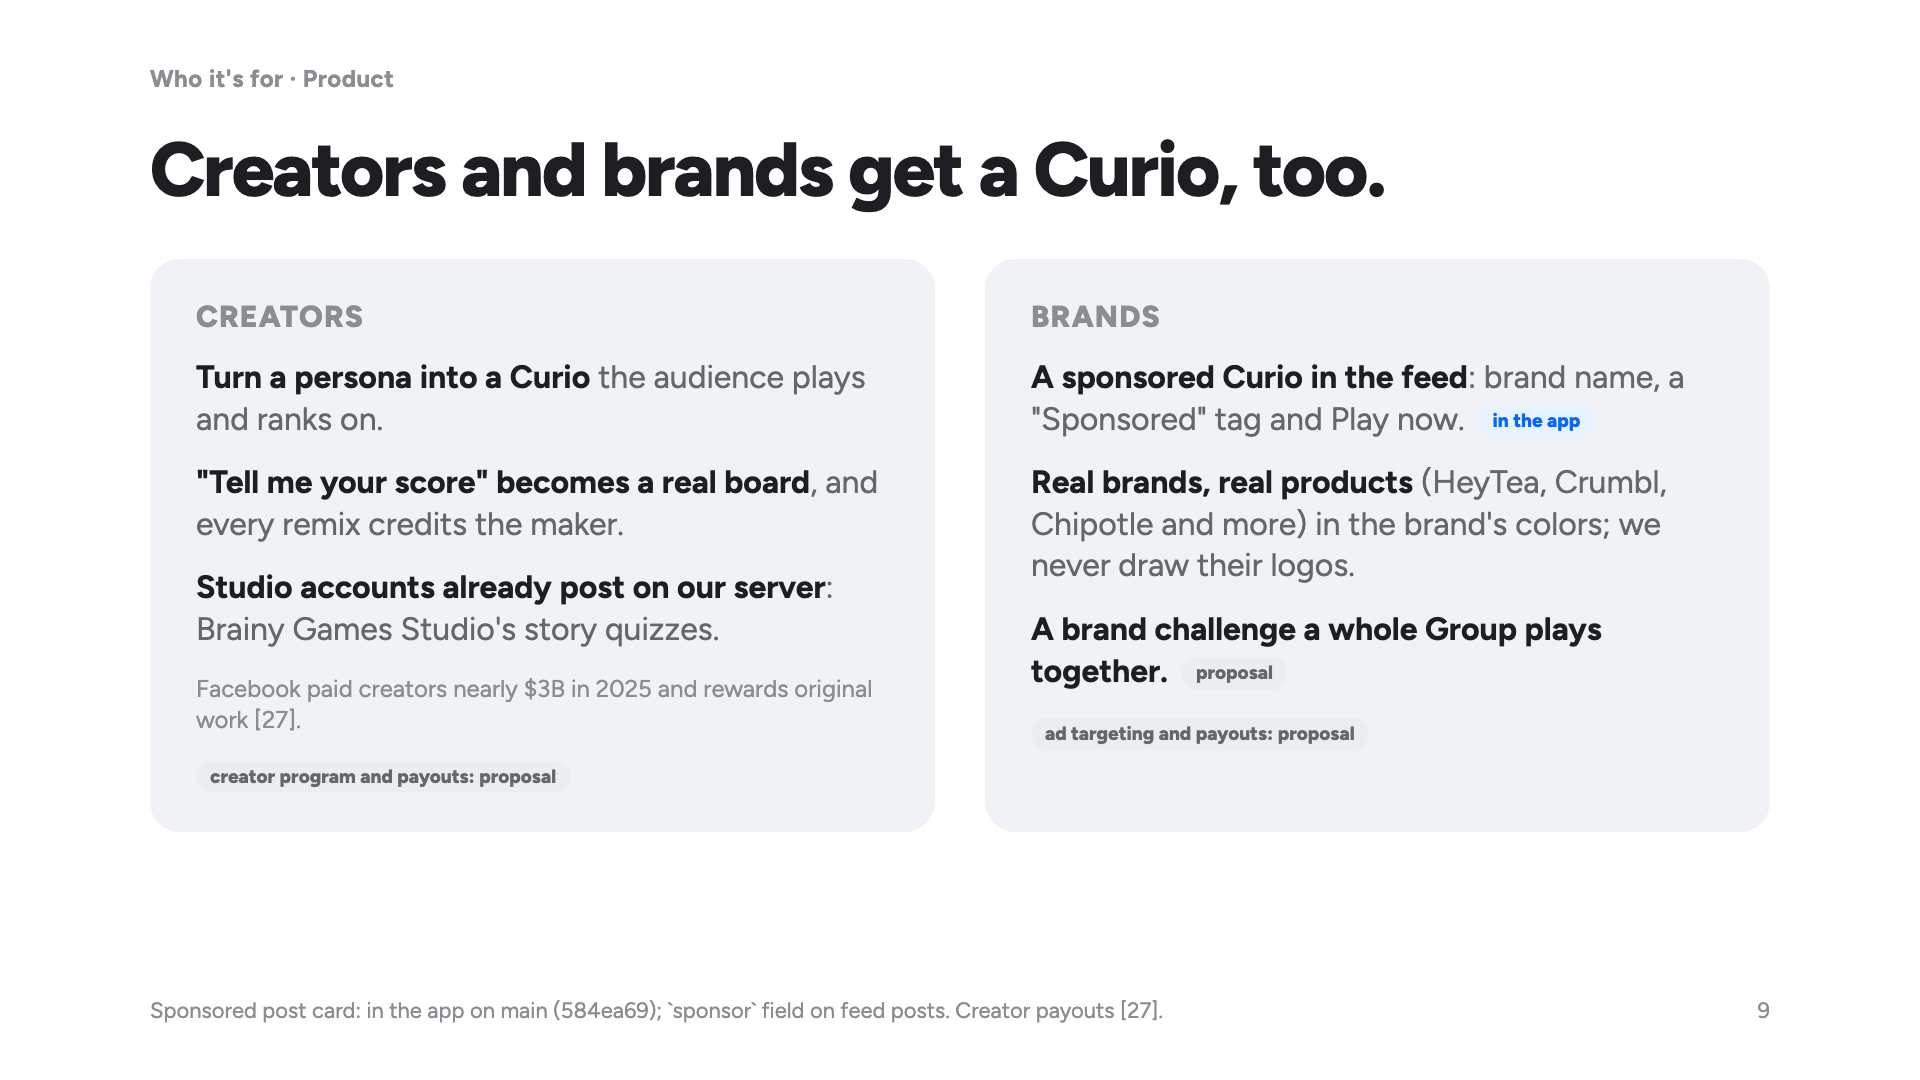
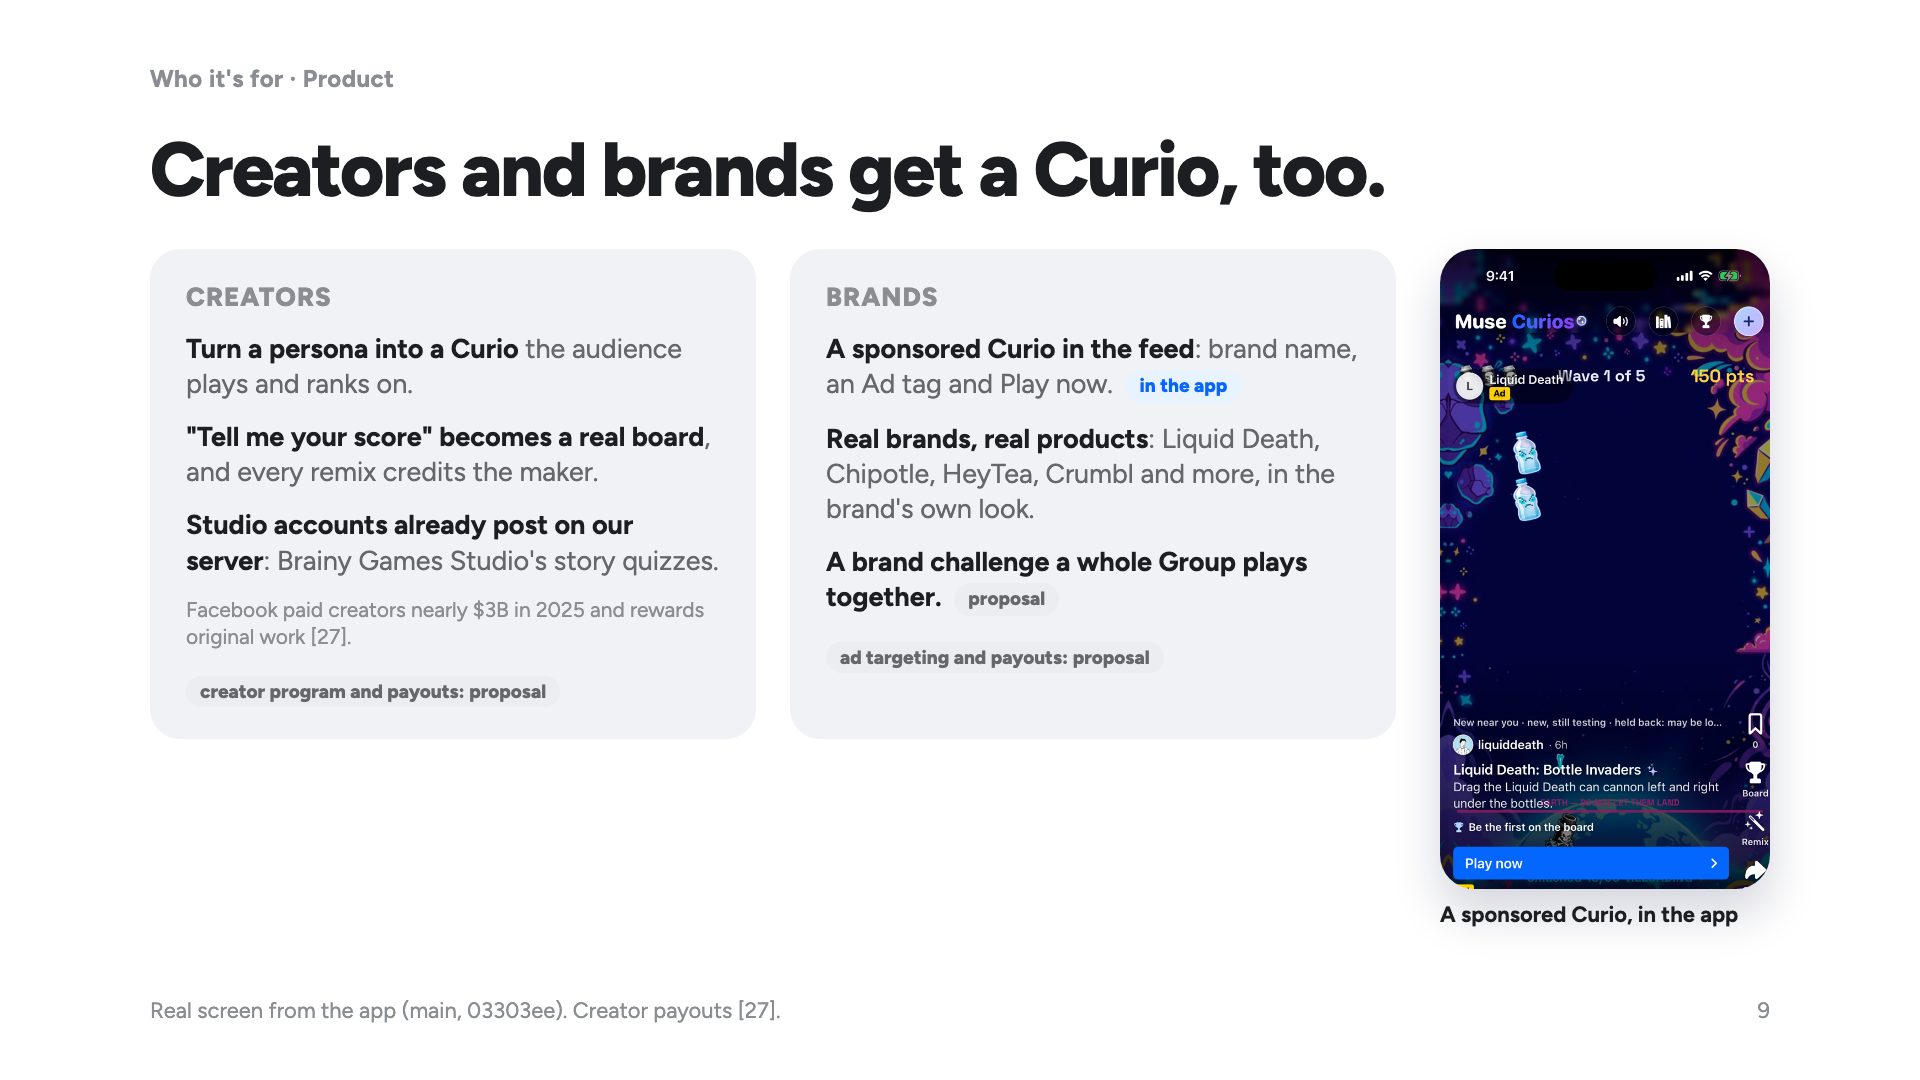
Slide 9: a real sponsored Curio screen from the app (Liquid Death, Ad tag, Play now); wording matches the app

diff --git a/docs/pr/slides/deck.html b/docs/pr/slides/deck.html
@@ -395,6 +395,11 @@ h2 { font-size: 96px; line-height: 1.04; font-weight: 800; letter-spacing: -.025
 .cph2 { display: flex; align-items: flex-end; gap: 50px; margin-top: 24px; }
 .cpl { flex: none; width: 400px; padding-bottom: 50px; } .cpl b { display: block; white-space: nowrap; font-size: 64px; font-weight: 900; background: var(--grad); -webkit-background-clip: text; color: transparent; }
 .cpl span { display: block; font-size: 26px; color: var(--ink); font-weight: 700; line-height: 1.25; margin-top: 4px; } .cpl small { display: block; font-size: 20px; color: var(--muted); margin-top: 12px; }
+
+.srow { display: flex; gap: 44px; align-items: flex-start; margin-top: 40px; } .srow .sgrid { flex: 1; margin-top: 0; gap: 34px; }
+.spon .sc { padding: 32px 36px; } .spon .sc p { font-size: 27px; margin-top: 18px; } .spon .sc em { font-size: 26px; } .spon .sc p.sev { font-size: 21px; }
+.sph { margin: 0; flex: none; width: 330px; } .sph img { width: 330px; height: 640px; object-fit: cover; object-position: top; border-radius: 34px; display: block; box-shadow: 0 24px 48px rgba(16,24,64,.18); }
+.sph figcaption { font-size: 22px; font-weight: 700; margin-top: 12px; }
 </style>
 </head>
 <body>
@@ -553,7 +558,7 @@ h2 { font-size: 96px; line-height: 1.04; font-weight: 800; letter-spacing: -.025
 <section class="slide spon">
   <div class="label">Who it's for · Product</div>
   <h2>Creators and brands get a Curio, too.</h2>
-  <div class="sgrid">
+  <div class="srow"><div class="sgrid">
     <div class="sc"><em>Creators</em>
       <p><b>Turn a persona into a Curio</b> the audience plays and ranks on.</p>
       <p><b>"Tell me your score" becomes a real board</b>, and every remix credits the maker.</p>
@@ -561,12 +566,14 @@ h2 { font-size: 96px; line-height: 1.04; font-weight: 800; letter-spacing: -.025
       <p class="sev">Facebook paid creators nearly $3B in 2025 and rewards original work [27].</p>
       <span class="chip srv">creator program and payouts: proposal</span></div>
     <div class="sc"><em>Brands</em>
-      <p><b>A sponsored Curio in the feed</b>: brand name, a "Sponsored" tag and Play now. <span class="chip app">in the app</span></p>
-      <p><b>Real brands, real products</b> (HeyTea, Crumbl, Chipotle and more) in the brand's colors; we never draw their logos.</p>
+      <p><b>A sponsored Curio in the feed</b>: brand name, an Ad tag and Play now. <span class="chip app">in the app</span></p>
+      <p><b>Real brands, real products</b>: Liquid Death, Chipotle, HeyTea, Crumbl and more, in the brand's own look.</p>
       <p><b>A brand challenge a whole Group plays together.</b> <span class="chip srv">proposal</span></p>
       <span class="chip srv">ad targeting and payouts: proposal</span></div>
   </div>
-  <div class="foot"><span>Sponsored post card: in the app on main (584ea69); `sponsor` field on feed posts. Creator payouts [27].</span><span class="pg"></span></div>
+    <figure class="sph"><img src="img/app-sponsored.png" alt="A sponsored Curio card in the app"><figcaption>A sponsored Curio, in the app</figcaption></figure>
+  </div>
+  <div class="foot"><span>Real screen from the app (main, 03303ee). Creator payouts [27].</span><span class="pg"></span></div>
 </section>
 
 <section class="slide">
